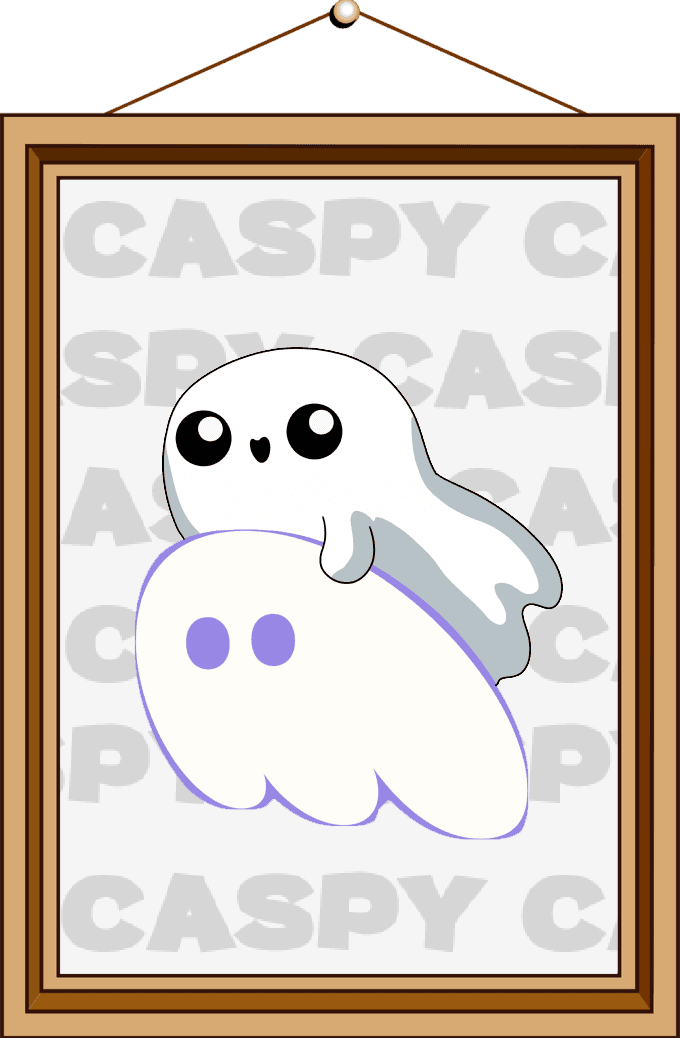
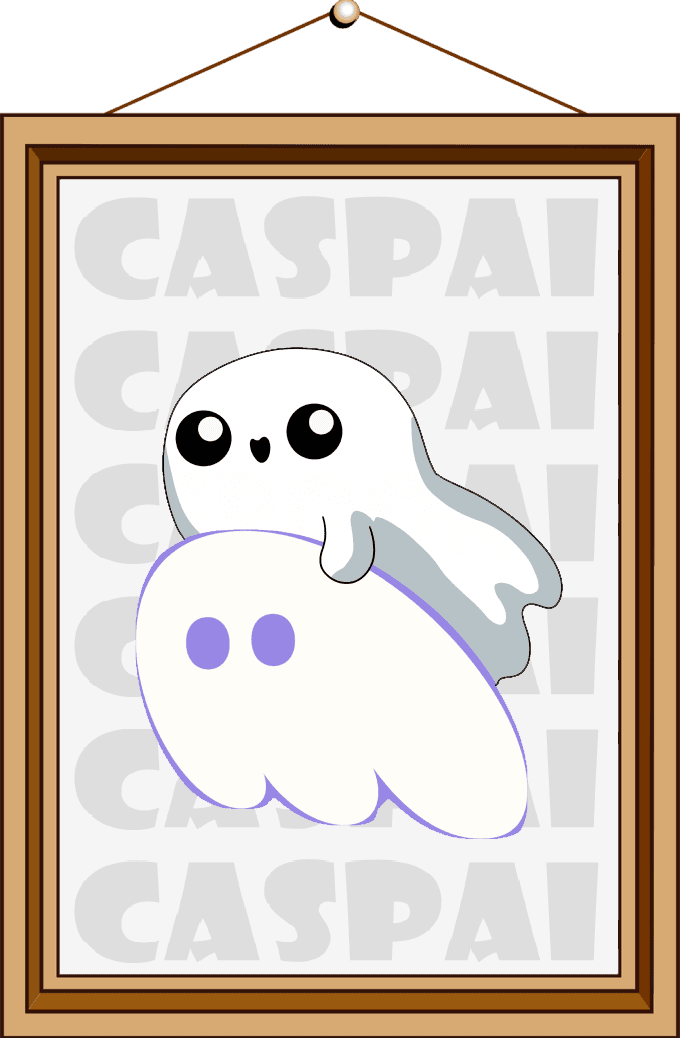
change toker to CaspAi

diff --git a/index.html b/index.html
@@ -14,9 +14,9 @@
   <link rel="icon" type="image/png" sizes="32x32" href="images/favicon-32x32.png">
   <link rel="icon" type="image/png" sizes="16x16" href="images/favicon-16x16.png">
   <link rel="manifest" href="/site.webmanifest">
-  <title>$CASPY - Solana's Ultimate Defender</title>
+  <title>$CASPAI - Solana's Ultimate Defender</title>
   <meta name="description"
-    content="$CASPY is the cutest little ghost on a mission to explore the entire Solana blockchain!">
+    content="$CASPAI is the cutest little ghost on a mission to explore the entire Solana blockchain!">
   <meta name="next-size-adjust">
 </head>
 
@@ -60,7 +60,7 @@
             class="relative rounded-full bg-white hover:bg-accent duration-300 transition-colors ease-out group ~py-1.5/2 ~px-4/5 h-fit w-fit uppercase ~text-sm/base"
             href="/#how-to-buy">how to buy</a><a
             class="relative rounded-full bg-white hover:bg-accent duration-300 transition-colors ease-out group ~py-1.5/2 ~px-4/5 h-fit w-fit uppercase ~text-sm/base"
-            href="/#faq">Faq</a><a href="https://x.com/CaspyAI" target="_blank" rel="noopener noreferrer"
+            href="/#faq">Faq</a><a href="https://x.com/CASPAIAI" target="_blank" rel="noopener noreferrer"
             class="uppercase ~text-sm/base relative rounded-full bg-white hover:bg-accent duration-300 transition-colors ease-out group ~py-1.5/2 ~px-4/5 h-fit w-fit"><svg
               stroke="currentColor" fill="currentColor" stroke-width="0" viewBox="0 0 24 24"
               class="text-black group-hover:text-white ~w-4/5 ~h-4/5 transition-colors ease-out duration-300"
@@ -68,7 +68,7 @@
               <path
                 d="M8 2H1L9.26086 13.0145L1.44995 21.9999H4.09998L10.4883 14.651L16 22H23L14.3917 10.5223L21.8001 2H19.1501L13.1643 8.88578L8 2ZM17 20L5 4H7L19 20H17Z">
               </path>
-            </svg></a><a href="https://t.me/CaspyAI" target="_blank" rel="noopener noreferrer"
+            </svg></a><a href="https://t.me/CASPAIAI" target="_blank" rel="noopener noreferrer"
             class="uppercase ~text-sm/base relative rounded-full bg-white hover:bg-accent duration-300 transition-colors ease-out group ~py-1.5/2 ~px-4/5 h-fit w-fit"><svg
               stroke="currentColor" fill="currentColor" stroke-width="0" viewBox="0 0 448 512"
               class="text-black group-hover:text-white ~w-4/5 ~h-4/5 transition-colors ease-out duration-300"
@@ -131,7 +131,7 @@
                   href="/#how-to-buy">how to buy</a><a
                   class="text-white text-center text-lg uppercase text-rubik py-2 font-medium border-b border-white/15"
                   href="/#faq">Faq</a></div>
-              <div class="flex flex-row justify-center items-center gap-5"><a href="https://x.com/CaspyAI"
+              <div class="flex flex-row justify-center items-center gap-5"><a href="https://x.com/CASPAIAI"
                   target="_blank" rel="noopener noreferrer"
                   class="bg-white w-full hover:bg-accent duration-300 group transition-colors ease-out py-2.5 sm:~py-1.5/2.5 ~px-2/5 sm:~w-36/56 items-center justify-center rounded-full flex"><svg
                     stroke="currentColor" fill="currentColor" stroke-width="0" viewBox="0 0 24 24"
@@ -140,7 +140,7 @@
                     <path
                       d="M8 2H1L9.26086 13.0145L1.44995 21.9999H4.09998L10.4883 14.651L16 22H23L14.3917 10.5223L21.8001 2H19.1501L13.1643 8.88578L8 2ZM17 20L5 4H7L19 20H17Z">
                     </path>
-                  </svg></a><a href="https://t.me/CaspyAI" target="_blank" rel="noopener noreferrer"
+                  </svg></a><a href="https://t.me/CASPAIAI" target="_blank" rel="noopener noreferrer"
                   class="bg-white w-full hover:bg-accent duration-300 group transition-colors ease-out py-2.5 sm:~py-1.5/2.5 ~px-2/5 sm:~w-36/56 items-center justify-center rounded-full flex"><svg
                     stroke="currentColor" fill="currentColor" stroke-width="0" viewBox="0 0 448 512"
                     class="text-black group-hover:text-white ~w-6/7 ~h-6/7 transition-colors ease-out duration-300"
@@ -195,7 +195,7 @@
                   In the elite city of UPTOWN,
                   chaos erupts as low-quality projects flood the streets in an attempt to tarnish Solana's prestige.
                   Enter
-                  CASPY, leader of RUG BUSTER INC., on a mission to clean up the mess.</p>
+                  CASPAI, leader of RUG BUSTER INC., on a mission to clean up the mess.</p>
               </div>
               <div
                 class="absolute w-0 h-0 left-4 translate-y-1/2 rotate-180 bottom-0 border-t-[16px] border-t-transparent border-l-[22px] border-b-[16px] border-b-transparent border-r-white border-l-white"
@@ -207,9 +207,9 @@
               <div class="py-3 px-5 rounded-lg bg-white text-black comics-text-wrapper">
                 <p class="text-base !leading-[1.4] md:~text-xs/lg font-rubik font-medium comic-neue-bold comics-text">
                   With his fearless team,
-                  CASPY
+                  CASPAI
                   sweeps the streets, sending bad projects to the RUGYARD or back to the dark corners of RUGSTREET in
-                  DOWNTOWN. His heroic efforts restore peace, and UPTOWN rewards CASPY by making him a core member,
+                  DOWNTOWN. His heroic efforts restore peace, and UPTOWN rewards CASPAI by making him a core member,
                   solidifying his place as Solana's ultimate defender.</p>
               </div>
               <div
@@ -228,7 +228,7 @@
                   In the elite city of UPTOWN,
                   chaos erupts as low-quality projects flood the streets in an attempt to tarnish Solana's prestige.
                   Enter
-                  CASPY, leader of RUG BUSTER INC., on a mission to clean up the mess.</p>
+                  CASPAI, leader of RUG BUSTER INC., on a mission to clean up the mess.</p>
               </div>
               <div
                 class="absolute w-0 h-0 left-4 translate-y-1/2 rotate-180 bottom-0 border-t-[16px] border-t-transparent border-l-[22px] border-b-[16px] border-b-transparent border-r-white border-l-white"
@@ -239,9 +239,9 @@
               <div class="py-3 px-5 rounded-lg bg-white text-black comics-text-wrapper">
                 <p class="text-base !leading-[1.4] md:~text-xs/lg font-rubik font-medium comic-neue-bold comics-text">
                   With his fearless team,
-                  CASPY
+                  CASPAI
                   sweeps the streets, sending bad projects to the RUGYARD or back to the dark corners of RUGSTREET in
-                  DOWNTOWN. His heroic efforts restore peace, and UPTOWN rewards CASPY by making him a core member,
+                  DOWNTOWN. His heroic efforts restore peace, and UPTOWN rewards CASPAI by making him a core member,
                   solidifying his place as Solana's ultimate defender.</p>
               </div>
               <div
@@ -401,7 +401,7 @@
         <div class="grow mt-[2rem] lg:mt-[7rem] mx-auto">
           <div class="flex min-h-[45.875rem]"><img alt="step" loading="lazy" width="340" height="519" decoding="async"
               data-nimg="1" class="mr-[20px] h-fit" style="color:transparent"
-              srcset="image_19.webp 1x, image_13.webp 2x" src="image_13.webp" />
+              srcset="image_19.webp 1x, image_12.webp 2x" src="image_12.webp" />
             <div class="border-l-2 border-dashed border-accent mt-[7%]"></div>
             <div class="relative w-max h-max mt-[11%] mr-[20px] -ml-0.5">
               <h4
@@ -428,15 +428,15 @@
             </div>
             <div class="mt-[9%]">
               <h1 class="text-accent ~text-[2rem]/[3rem] font-boldenVan ">Get some SOL</h1>
-              <p class="max-w-[381px] text-xl mb-6">Have SOL in your wallet to switch to $CASPY. If you don’t have any
+              <p class="max-w-[381px] text-xl mb-6">Have SOL in your wallet to switch to $CASPAI. If you don’t have any
                 SOL, you can buy directly on Phantom, transfer from another wallet, or buy on another exchange and send
                 it
                 to your wallet.</p>
             </div>
           </div>
           <div class="flex min-h-[45.875rem]"><img alt="step" loading="lazy" width="340" height="519" decoding="async"
-              data-nimg="1" class="mr-[20px] h-fit" style="color:transparent" srcset="image_21.webp 1x, image_13 2x"
-              src="image_13" />
+              data-nimg="1" class="mr-[20px] h-fit" style="color:transparent" srcset="image_21.webp 1x, image_13.webp 2x"
+              src="image_13.webp" />
             <div class="border-l-2 border-dashed border-accent"></div>
             <div class="relative w-max h-max mt-[11%] mr-[20px] -ml-0.5">
               <h4
@@ -447,8 +447,8 @@
             <div class="mt-[9%]">
               <h1 class="text-accent ~text-[2rem]/[3rem] font-boldenVan ">Go to Jupiter</h1>
               <p class="max-w-[381px] text-xl mb-6">Connect to Jupiter. Connect your wallet in chrome. Paste the
-                $CASPY
-                token address, select $CASPY, and confirm. When Phantom prompts you for a wallet signature, sign.</p>
+                $CASPAI
+                token address, select $CASPAI, and confirm. When Phantom prompts you for a wallet signature, sign.</p>
               <div class="bg-light-black rounded-lg px-3 py-3 sm:px-4 sm:py-3 flex gap-3 md:max-w-[381px]">
                 <div class="flex flex-col grow gap-2">
                   <div class="relative max-w-[176px]"><img alt="sticker" loading="lazy" width="352" height="48"
@@ -456,10 +456,10 @@
                       srcset="image_40 1x, image_16 2x" src="image_16" />
                     <h4
                       class="text-accent font-boldenVan textlg lg:~text-[0.5rem]/[1.125rem] lg:~leading-[0.5rem]/[1.125rem] absolute top-0 translate-x-2 lg:translate-y-1">
-                      $CASPY Address</h4>
+                      $CASPAI Address</h4>
                   </div>
                   <h1 class="break-all font-medium font-rubik" id="textToCopy">
-                    Caspy9RkE1qyToLxh8NWAhs9EmJdgsibVaJNAVqKGnaC</h1>
+                    CASPAI9RkE1qyToLxh8NWAhs9EmJdgsibVaJNAVqKGnaC</h1>
                 </div>
                 <div class=""><button
                     class="flex items-center justify-center border-2 rounded-lg p-2 hover:bg-accent hover:border-accent transition-colors duration-200"
@@ -483,8 +483,8 @@
                 data-nimg="1" class="w-[3rem] lg:w-[4.5rem]" style="color:transparent" src="images/number.svg" />
             </div>
             <div class="mt-[9%]">
-              <h1 class="text-accent ~text-[2rem]/[3rem] font-boldenVan ">Swap for CASPY</h1>
-              <p class="max-w-[381px] text-xl mb-6">Switch SOL for $CASPY. We have Zero taxes so you don’t need to
+              <h1 class="text-accent ~text-[2rem]/[3rem] font-boldenVan ">Swap for CASPAI</h1>
+              <p class="max-w-[381px] text-xl mb-6">Switch SOL for $CASPAI. We have Zero taxes so you don’t need to
                 worry
                 about buying with a specific slippage.</p>
             </div>
@@ -527,7 +527,7 @@
             </div>
             <div class="flex flex-col grow gap-3">
               <h1 class="text-accent ~text-[1.5rem]/[2.5rem] leading-[1.6rem] font-boldenVan ">Get some SOL</h1>
-              <p class="w-full ~text-[1rem]/xl">Have SOL in your wallet to switch to $CASPY. If you don’t have any
+              <p class="w-full ~text-[1rem]/xl">Have SOL in your wallet to switch to $CASPAI. If you don’t have any
                 SOL,
                 you can buy directly on Phantom, transfer from another wallet, or buy on another exchange and send it to
                 your wallet.</p><img alt="how-to-buy-bg" loading="lazy" width="162" height="247" decoding="async"
@@ -548,8 +548,8 @@
             </div>
             <div class="flex flex-col grow gap-3">
               <h1 class="text-accent ~text-[1.5rem]/[2.5rem] leading-[1.6rem] font-boldenVan ">Go to Jupiter</h1>
-              <p class="w-full ~text-[1rem]/xl">Connect to Jupiter. Connect your wallet in chrome. Paste the $CASPY
-                token address, select $CASPY, and confirm. When Phantom prompts you for a wallet signature, sign.</p>
+              <p class="w-full ~text-[1rem]/xl">Connect to Jupiter. Connect your wallet in chrome. Paste the $CASPAI
+                token address, select $CASPAI, and confirm. When Phantom prompts you for a wallet signature, sign.</p>
               <img alt="how-to-buy-bg" loading="lazy" width="162" height="247" decoding="async" data-nimg="1"
                 class="w-[46.66%]" style="color:transparent" srcset="image_42.webp 1x, image_21.webp 2x"
                 src="image_21.webp" />
@@ -560,10 +560,10 @@
                       srcset="image_40 1x, image_16 2x" src="image_16" />
                     <h4
                       class="text-accent font-boldenVan textlg lg:~text-[0.5rem]/[1.125rem] lg:~leading-[0.5rem]/[1.125rem] absolute top-0 translate-x-2 lg:translate-y-1">
-                      $CASPY Address</h4>
+                      $CASPAI Address</h4>
                   </div>
                   <h1 class="break-all font-medium font-rubik" id="textToCopyMobile">
-                    Caspy9RkE1qyToLxh8NWAhs9EmJdgsibVaJNAVqKGnaC</h1>
+                    CASPAI9RkE1qyToLxh8NWAhs9EmJdgsibVaJNAVqKGnaC</h1>
                 </div>
                 <div class=""><button id="copyButtonMobile"
                     class="flex items-center justify-center border-2 rounded-lg p-2 hover:bg-accent hover:border-accent transition-colors duration-200"><svg
@@ -586,8 +586,8 @@
               </div>
             </div>
             <div class="flex flex-col grow gap-3">
-              <h1 class="text-accent ~text-[1.5rem]/[2.5rem] leading-[1.6rem] font-boldenVan ">Swap for CASPY</h1>
-              <p class="w-full ~text-[1rem]/xl">Switch SOL for $CASPY. We have Zero taxes so you don’t need to worry
+              <h1 class="text-accent ~text-[1.5rem]/[2.5rem] leading-[1.6rem] font-boldenVan ">Swap for CASPAI</h1>
+              <p class="w-full ~text-[1rem]/xl">Switch SOL for $CASPAI. We have Zero taxes so you don’t need to worry
                 about buying with a specific slippage.</p><img alt="how-to-buy-bg" loading="lazy" width="162"
                 height="247" decoding="async" data-nimg="1" class="w-[46.66%]" style="color:transparent"
                 srcset="image_48.webp 1x, image_20.webp 2x" src="image_20.webp" />
@@ -613,7 +613,7 @@
             <div class="w-full md:w-1/2">
               <div
                 class="flex flex-col w-full px-1 pt-4 pb-3 first:border-t border-b border-dashed border-white accordion-item">
-                <button aria-controls="Who is CASPY?" aria-expanded="false"
+                <button aria-controls="Who is CaspAI?" aria-expanded="false"
                   class="flex items-center justify-between w-full text-left space-x-4 accordion-header">
                   <div class="flex items-center  space-x-4">
                     <div class="text-2xl accordion-header-icon">
@@ -624,20 +624,20 @@
                         </path>
                       </svg>
                     </div>
-                    <h3 class="text-xl font-boldenVan">Who is CASPY?</h3>
+                    <h3 class="text-xl font-boldenVan">Who is CaspAI?</h3>
                   </div>
                 </button>
                 <div
                   class="overflow-hidden mt-3 font-rubik text-white grid items-center grid-col-[20px_1fr] accordion-content"
                   style="height:0px;margin-bottom:0px">
-                  <p class="text-black-400 pl-10">CASPY is the balance bringer to society making sure chaos isn’t
+                  <p class="text-black-400 pl-10">CaspAI is the balance bringer to society making sure chaos isn’t
                     raised
                     by the shitters invading the populous & successful city of UPTOWN</p>
                 </div>
               </div>
               <div
                 class="flex flex-col w-full px-1 pt-4 pb-3 first:border-t border-b border-dashed border-white accordion-item">
-                <button aria-controls="What chain is $CASPY on?" aria-expanded="false"
+                <button aria-controls="What chain is $CASPAI on?" aria-expanded="false"
                   class="flex items-center justify-between w-full text-left space-x-4 accordion-header">
                   <div class="flex items-center  space-x-4">
                     <div class="text-2xl accordion-header-icon" style="transform:none"><svg stroke="currentColor"
@@ -647,18 +647,18 @@
                           d="M416 208H272V64c0-17.67-14.33-32-32-32h-32c-17.67 0-32 14.33-32 32v144H32c-17.67 0-32 14.33-32 32v32c0 17.67 14.33 32 32 32h144v144c0 17.67 14.33 32 32 32h32c17.67 0 32-14.33 32-32V304h144c17.67 0 32-14.33 32-32v-32c0-17.67-14.33-32-32-32z">
                         </path>
                       </svg></div>
-                    <h3 class="text-xl font-boldenVan">What chain is $CASPY on?</h3>
+                    <h3 class="text-xl font-boldenVan">What chain is $CASPAI on?</h3>
                   </div>
                 </button>
                 <div
                   class="overflow-hidden mt-3 font-rubik text-white grid items-center grid-col-[20px_1fr] accordion-content"
                   style="height:0px;margin-bottom:0px">
-                  <p class="text-black-400 pl-10">CASPY is on the Solana blockchain</p>
+                  <p class="text-black-400 pl-10">CASPAI is on the Solana blockchain</p>
                 </div>
               </div>
               <div
                 class="flex flex-col w-full px-1 pt-4 pb-3 first:border-t border-b border-dashed border-white accordion-item">
-                <button aria-controls="How do I buy $CASPY?" aria-expanded="false"
+                <button aria-controls="How do I buy $CASPAI?" aria-expanded="false"
                   class="flex items-center justify-between w-full text-left space-x-4 accordion-header">
                   <div class="flex items-center  space-x-4">
                     <div class="text-2xl accordion-header-icon" style="transform:none">
@@ -669,7 +669,7 @@
                         </path>
                       </svg>
                     </div>
-                    <h3 class="text-xl font-boldenVan">How do I buy $CASPY?</h3>
+                    <h3 class="text-xl font-boldenVan">How do I buy $CASPAI?</h3>
                   </div>
                 </button>
                 <div
@@ -703,7 +703,7 @@
           JOIN OUR COMMUNITY</h1>
         <div
           class="flex flex-row justify-center items-center gap-3 md:gap-5 z-10 w-[90%] md:w-[35%] mx-[5%] md:mx-auto">
-          <a href="https://x.com/CaspyAI" target="_blank" rel="noopener noreferrer"
+          <a href="https://x.com/CASPAIAI" target="_blank" rel="noopener noreferrer"
             class="bg-white w-full hover:bg-accent duration-300 group transition-colors ease-out py-2.5 md:~py-1.5/2.5 ~px-2/5 md:~w-36/56 items-center justify-center rounded-full flex"><svg
               stroke="currentColor" fill="currentColor" stroke-width="0" viewBox="0 0 24 24"
               class="text-black group-hover:text-white ~w-6/7 ~h-8/10 md:~h-6/7 transition-colors ease-out duration-300"
@@ -711,7 +711,7 @@
               <path
                 d="M8 2H1L9.26086 13.0145L1.44995 21.9999H4.09998L10.4883 14.651L16 22H23L14.3917 10.5223L21.8001 2H19.1501L13.1643 8.88578L8 2ZM17 20L5 4H7L19 20H17Z">
               </path>
-            </svg></a><a href="https://t.me/CaspyAI" target="_blank" rel="noopener noreferrer"
+            </svg></a><a href="https://t.me/CASPAIAI" target="_blank" rel="noopener noreferrer"
             class="bg-white w-full hover:bg-accent duration-300 group transition-colors ease-out py-2.5 md:~py-1.5/2.5 ~px-2/5 md:~w-36/56 items-center justify-center rounded-full flex"><svg
               stroke="currentColor" fill="currentColor" stroke-width="0" viewBox="0 0 448 512"
               class="text-black group-hover:text-white ~w-6/7 ~h-8/10 md:~h-6/7 transition-colors ease-out duration-300"
@@ -746,7 +746,7 @@
           srcset="image_31 1x, image_28 2x" src="image_28" />
       </div>
     </div><!--$!--><template data-dgst="BAILOUT_TO_CLIENT_SIDE_RENDERING"></template><!--/$-->
-    <!-- start custom code for Caspy -->
+    <!-- start custom code for CASPAI -->
     <style>
       body {
         position: relative;
@@ -946,7 +946,7 @@
     <div id="modal" class="modal">
       <div class="modal-content">
         <div class="chatHeader">
-          <h3 class="modalTitle">Chat with Caspy</h3>
+          <h3 class="modalTitle">Chat with CaspAI</h3>
           <span id="closeModalBtn" class="close">&times;</span>
         </div>
         <div id="chatHistoryContainer">
@@ -1047,17 +1047,17 @@
           </style>
           <div id="chat-history"></div>
           <div class="inputs-container">
-            <input type="text" id="user-input" placeholder="Say Hi to Caspy...">
+            <input type="text" id="user-input" placeholder="Say Hi to CaspAI...">
             <button id="send-button">Send</button>
           </div>
         </div>
       </div>
     </div>
   </div>
-  <!-- end of custom code for Caspy -->
+  <!-- end of custom code for CaspAII -->
   </div>
 
-  <!-- Custom script for Caspy -->
+  <!-- Custom script for CaspAII -->
   <script src="https://cdn.jsdelivr.net/npm/motion@latest/dist/motion.js"></script>
   <script>
     window.onload = function () {
@@ -1215,7 +1215,7 @@
     const chatHistory = JSON.parse(sessionStorage.getItem('chatHistory')) || [];
 
     if (chatHistory.length === 0) {
-      addMessageToChat('Hi, I am Caspy. Ask me something!', false);
+      addMessageToChat('Hi, I am CaspAI. Ask me something!', false);
     }
 
     function updateChatHistory() {
@@ -1263,7 +1263,7 @@
 
       const typingIndicator = document.createElement('div');
       typingIndicator.className = 'bot-message';
-      typingIndicator.innerHTML = `<div class="bot-avatar"></div> <span>Caspy is typing...</span>`;
+      typingIndicator.innerHTML = `<div class="bot-avatar"></div> <span>CaspAI is typing...</span>`;
       chatHistory.push(typingIndicator.outerHTML);
       updateChatHistory();
 
